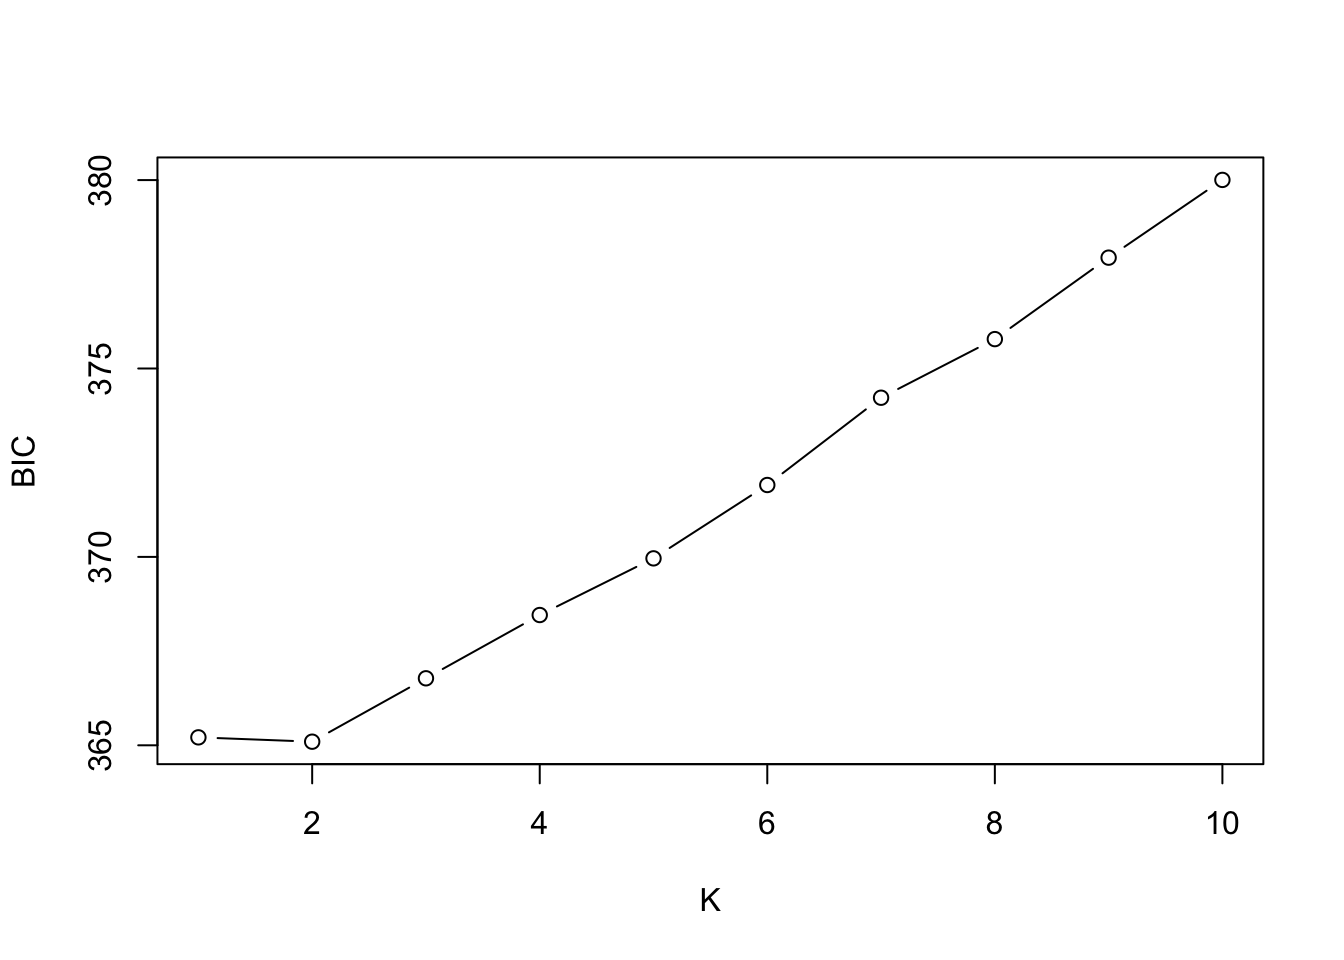
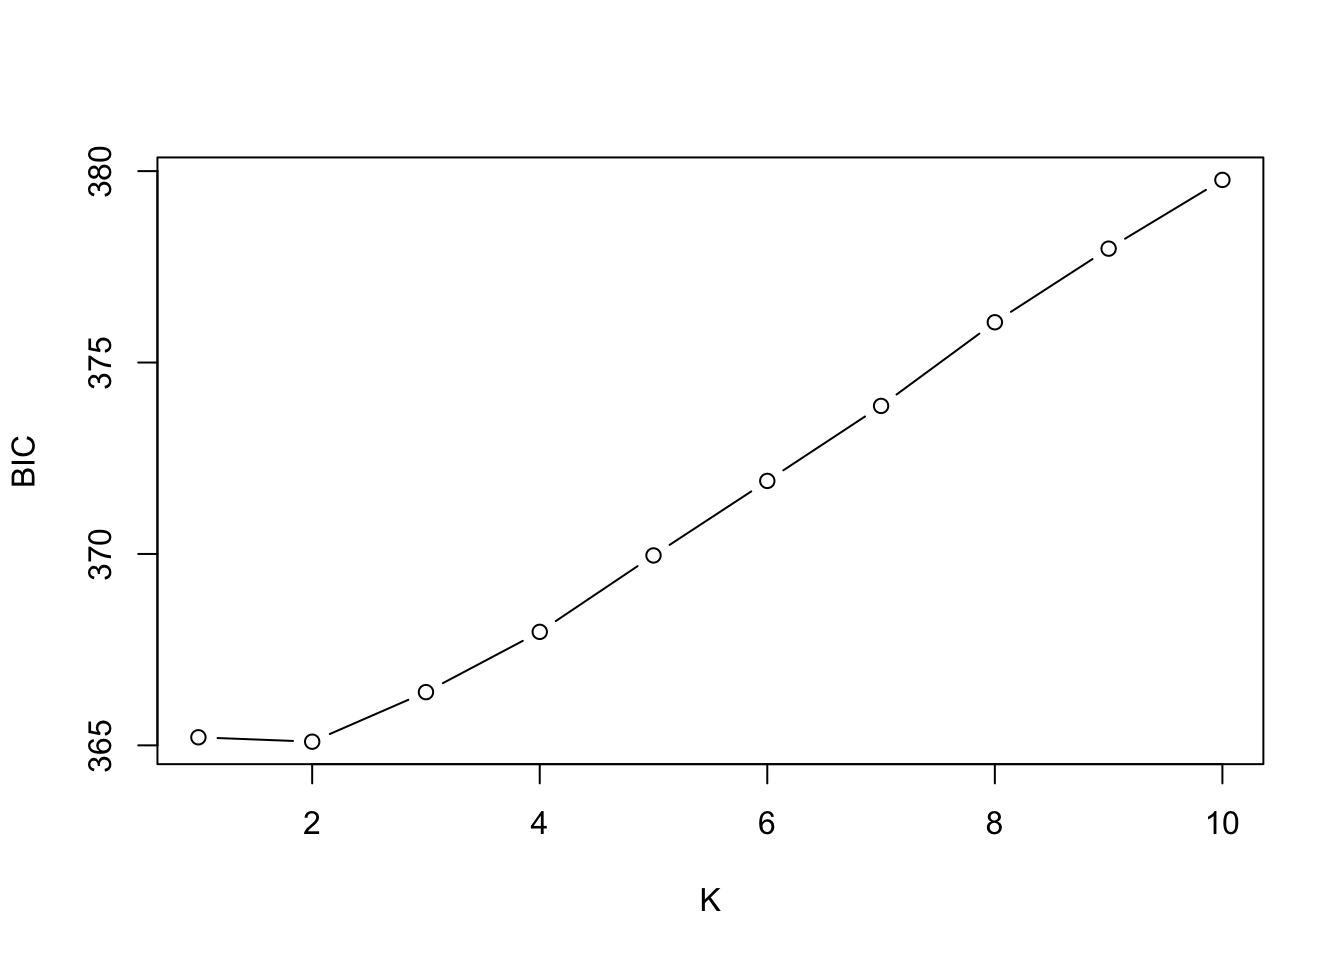
tweaking it again

diff --git a/docs/tree.html b/docs/tree.html
@@ -149,7 +149,7 @@ pre > code.sourceCode > span > a:first-child::before { text-decoration: underlin
 
 <section id="phylogenetic-inference-with-iqtree" class="level2">
 <h2 class="anchored" data-anchor-id="phylogenetic-inference-with-iqtree">Phylogenetic Inference with <code>IQTREE</code></h2>
-<p>The final lab of the semester will provide a brief introduction to estimating phylogenies with SNP data. We will infer relationships among five <em>Microcebus</em> spp. using data from Poelstra et al.&nbsp;2021. Unlike Poelstra et al., however, we will avoid species tree inference in favor of a concatenation-based method of phylogenetic inference implemented in <code>IQTREE</code>. This approach takes SNP data from a .vcf file, converts genotypes (e.g., <code>0/0</code>, <code>0/1</code>, <code>1/1</code>) into sequence characters (using standard bases for homozygotes and ambiguity codes like <code>R</code> for heterozygotes), concatenates all sites into a single alignment, and then uses a model of sequence evolution—along with an efficient pruning algorithm to evaluate likelihood—to search for the tree that maximizes the probability of observing these data. (While a diversity of pruning algorithms have been developed, they typically work by taking an initial tree and iteratively modifying its topology and branch lengths, only keeping changes that increase likelihood until no further improvement is found.) The documentation for <code>IQTREE</code> <a href="https://iqtree.github.io/">is unusually clear</a>, and worth your time.</p>
+<p>The final lab of the semester will provide a brief introduction to estimating phylogenies with SNP data. We will infer relationships among five <em>Microcebus</em> spp. using data from Poelstra et al.&nbsp;2021. Unlike Poelstra et al., however, we will avoid species tree inference in favor of a concatenation-based method of phylogenetic inference implemented in <code>IQTREE</code>. This approach takes SNP data from a .vcf file, converts genotypes (e.g., <code>0/0</code>, <code>0/1</code>, <code>1/1</code>) into sequence characters (using standard bases for homozygotes and ambiguity codes like <code>R</code> for heterozygotes), squishes all sites into a single alignment, and then uses a model of sequence evolution—along with an efficient pruning algorithm to evaluate likelihood—to search for the tree that maximizes the probability of observing these data. (While a diversity of pruning algorithms have been developed, they typically work by taking an initial tree and iteratively modifying its topology and branch lengths, only keeping changes that increase likelihood until no further improvement is found.) The documentation for <code>IQTREE</code> <a href="https://iqtree.github.io/">is unusually clear</a>, and worth your time.</p>
 <p>We begin by creating a new <code>mamba</code> environment for <code>IQTREE</code> and its dependencies:</p>
 <div class="code-copy-outer-scaffold"><div class="sourceCode" id="cb1"><pre class="sourceCode bash code-with-copy"><code class="sourceCode bash"><span id="cb1-1"><a href="#cb1-1" aria-hidden="true" tabindex="-1"></a><span class="ex">name:</span> iqtree</span>
 <span id="cb1-2"><a href="#cb1-2" aria-hidden="true" tabindex="-1"></a><span class="ex">channels:</span></span>

diff --git a/docs/structure.html b/docs/structure.html
@@ -560,9 +560,9 @@ $eig (eigenvalues): 2986  vector    length content
 <span id="cb29-11"><a href="#cb29-11" aria-hidden="true" tabindex="-1"></a>grp_auto<span class="sc">$</span>Kstat</span></code></pre></div><button title="Copy to Clipboard" class="code-copy-button"><i class="bi"></i></button></div>
 <div class="cell-output cell-output-stdout">
 <pre><code>     K=1      K=2      K=3      K=4      K=5      K=6      K=7      K=8 
-365.2108 365.0958 366.7781 368.4575 369.9612 371.9081 374.2242 375.7799 
+365.2108 365.0958 366.3905 367.9647 369.9612 371.9081 373.8672 376.0523 
      K=9     K=10 
-377.9418 380.0047 </code></pre>
+377.9752 379.7704 </code></pre>
 </div>
 <div class="code-copy-outer-scaffold"><div class="sourceCode cell-code" id="cb31"><pre class="sourceCode r code-with-copy"><code class="sourceCode r"><span id="cb31-1"><a href="#cb31-1" aria-hidden="true" tabindex="-1"></a><span class="co"># plot!</span></span>
 <span id="cb31-2"><a href="#cb31-2" aria-hidden="true" tabindex="-1"></a><span class="fu">plot</span>(</span>

diff --git a/docs/scans.html b/docs/scans.html
@@ -210,7 +210,7 @@ window.Quarto = {
 Summary:
 
     - input file:               data/salvelinus.vcf
-    - output file:              /var/folders/1j/bh_1nty95dg1md7_3hxwkkww65f186/T//RtmpBu7y21/file15f205b05eb8e.pcadapt
+    - output file:              /var/folders/1j/bh_1nty95dg1md7_3hxwkkww65f186/T//Rtmp88AAVv/file15fcd224160b0.pcadapt
 
     - number of individuals detected:   267
     - number of loci detected:      24337
